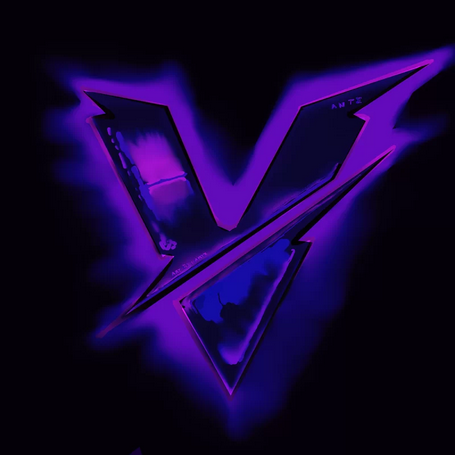
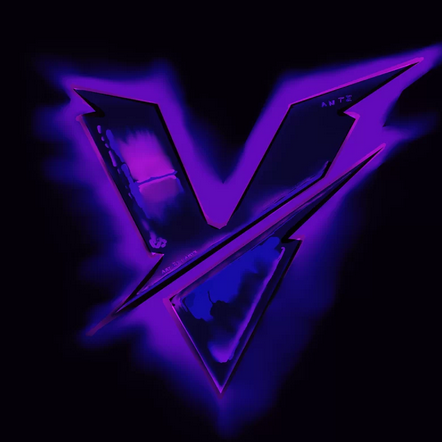
Change css

diff --git a/css/style.css b/css/style.css
@@ -393,6 +393,34 @@ hr {
     }
 }
 
+#skineditor {
+    position: absolute;
+    display: none;
+    width: 84vw;
+    height: 91vh;
+    background-color: var(--ui-main-dark);
+}
+
+#skinsiframe {
+    display: none;
+    width: 83.75vw;
+    height: 85.5vh;
+}
+
+.logoimgdiv {
+    position: absolute;
+    right: 100px;
+    transform: translateY(300px);
+    font-size: 30px;
+    border: 0.2vw solid var(--ui-main-light);
+    padding: 0.1vw 0.1vw;
+    cursor: pointer;
+}
+
+.logoimg {
+    width: 300px;
+}
+
 /* Mods Menu CSS */
 
 #mods {
@@ -906,20 +934,6 @@ hr {
 .copyipbutton:hover {
     border: 0.2vw solid var(--ui-main-lighter);
     background-color: rgba(255, 255, 255, 0.05);
-}
-
-.logoimgdiv {
-	position: absolute;
-    right: 350px;
-    transform: translateY(225px);
-    border: 0.2vw solid var(--ui-main-light);
-    padding: 1vw 1vw;
-    width: max-content;
-}
-
-.logoimg {
-	image-rendering: pixelated;
-    width: 175px;
 }
 
 /* Contributors Screen CSS */

diff --git a/css/style3.css b/css/style3.css
@@ -393,6 +393,34 @@ hr {
     }
 }
 
+#skineditor {
+    position: absolute;
+    display: none;
+    width: 84vw;
+    height: 91vh;
+    background-color: var(--ui-main-dark);
+}
+
+#skinsiframe {
+    display: none;
+    width: 83.75vw;
+    height: 85.5vh;
+}
+
+.logoimgdiv {
+    position: absolute;
+    right: 100px;
+    transform: translateY(300px);
+    font-size: 30px;
+    border: 0.2vw solid var(--ui-main-light);
+    padding: 0.1vw 0.1vw;
+    cursor: pointer;
+}
+
+.logoimg {
+    width: 300px;
+}
+
 /* Mods Menu CSS */
 
 #mods {

diff --git a/index.html b/index.html
@@ -5,7 +5,7 @@
     <meta charset="UTF-8">
     <meta name="viewport" content="width=device-width, initial-scale=1.0">
     <title>Eagler Launcher</title>
-    <link rel="stylesheet" href="./css/style3.css">
+    <link rel="stylesheet" href="./css/style.css">
     <link rel="stylesheet" media="screen and (max-width: 1100px)" href="css/screensize.css">
     <link rel="stylesheet" media="screen and (max-height: 550px)" href="css/screensize.css">
     <link rel="shortcut icon" href="./assets/images/logo.png" type="image/x-icon">